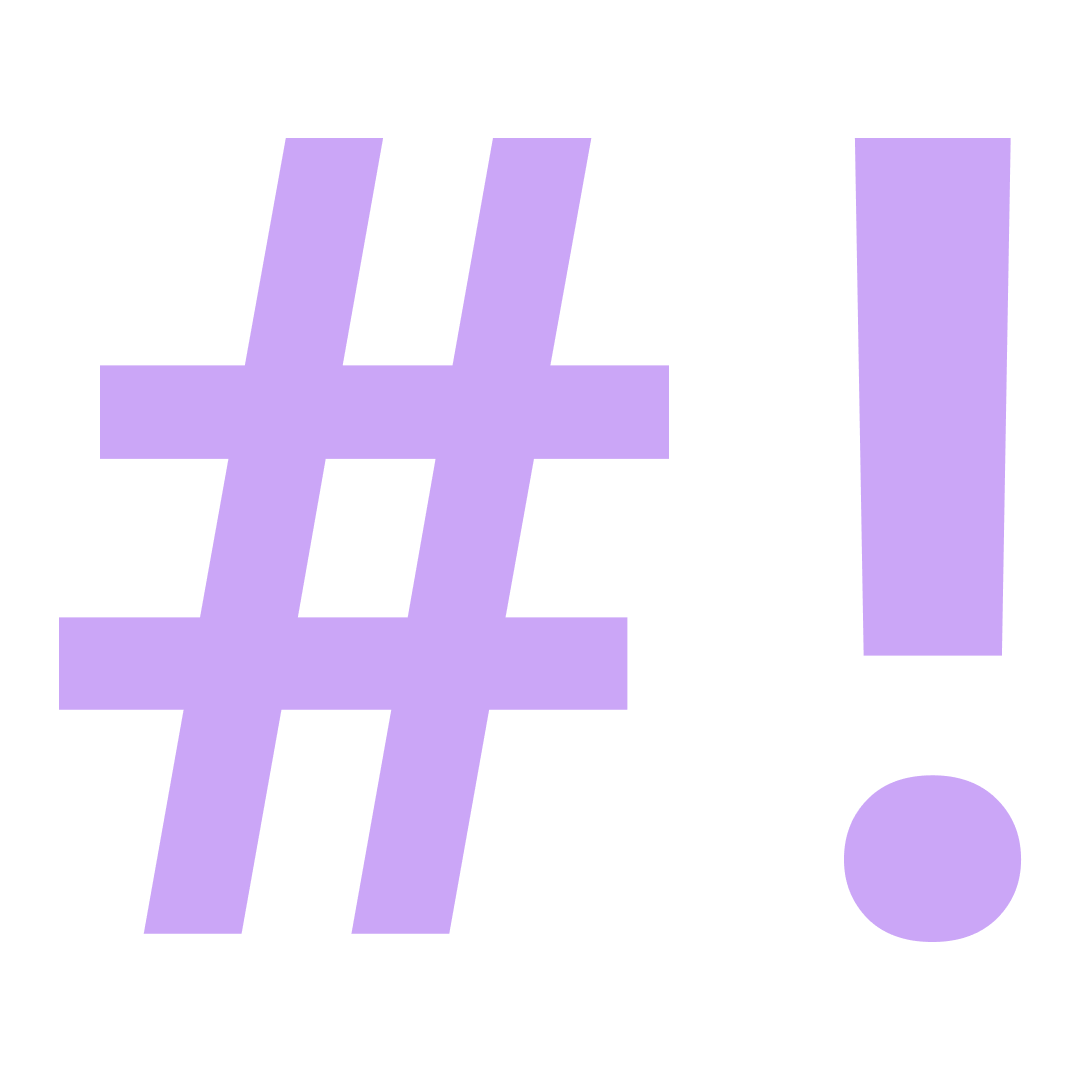
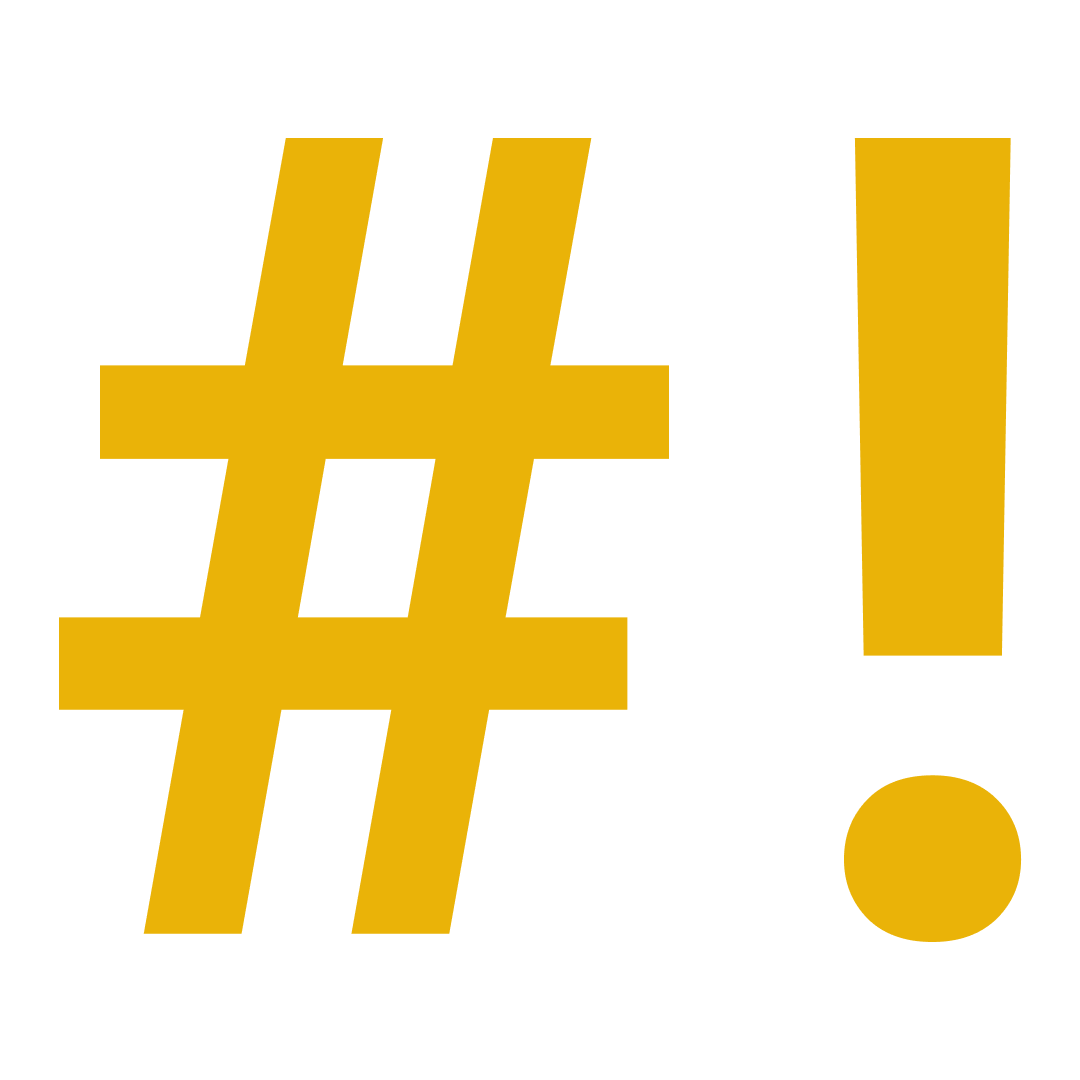
upd: new theme

Changed region(s): [[0.0306, 0.1222, 0.6417, 0.8861], [0.7944, 0.1222, 0.9472, 0.6111], [0.7639, 0.7028, 0.9472, 0.8861]]

diff --git a/qtile/.config/qtile/config.py b/qtile/.config/qtile/config.py
@@ -24,8 +24,8 @@ terminal = "kitty"
 
 img_folder = "~/.config/qtile/img/"
 
-walp = img_folder + "walps/ign-0002.png"
-logo = img_folder + "nan.png"
+walp = img_folder + "walps/neo2.png"
+logo = img_folder + "logo.png"
 
 keys = [
     # A list of available commands that can be bound to keys can be found
@@ -179,7 +179,6 @@ groups = [
         layout="max",
         matches=[Match(wm_class=["firefox", "Brave-browser"])],
         spawn=["brave-browser"],
-        exclusive=True,
     ),
     Group(
         name="dev",
@@ -214,7 +213,7 @@ layouts = [
     layout.Columns(
         margin=4,
         border_width=2,
-        border_focus=colors["yellow"],
+        border_focus=colors["base"],
         border_normal=colors["mantle"],
         border_on_single=False,
         margin_on_single=False
@@ -230,7 +229,7 @@ widget_defaults = dict(
 )
 extension_defaults = widget_defaults.copy()
 
-BAR_BG = colors["crust"] + "80"
+BAR_BG = colors["crust"]
 screens = [
     Screen(
         wallpaper=walp,
@@ -244,19 +243,20 @@ screens = [
                 ),
                 widget.Prompt(
                     fontsize=14,
-                    foreground=colors["base"],
-                    background=colors["mauve"]
+                    foreground=colors["mantle"],
+                    background=colors["green"]
                 ),
                 widget.GroupBox(
                     borderwidth=5,
                     active=colors["text"],
-                    inactive=colors["overlay0"],
+                    inactive=colors["overlay"],
                     background=BAR_BG,
                     disable_drag=False,
                     font="CaskaydiaCove Nerd Font Mono",
                     highlight_method="line",
                     highlight_color=BAR_BG,
-                    this_current_screen_border=colors["mauve"]
+                    hide_unused=True,
+                    this_current_screen_border=colors["yellow"]
                 ),
                 widget.TaskList(
                     urgent_alert_method="text",
@@ -267,7 +267,7 @@ screens = [
                     padding=6,
                     icon_size=0,
                     border=BAR_BG,
-                    foreground=colors["pink"],
+                    foreground=colors["yellow"],
                     borderwidth=0,
                     highlight_method="block",
                     center_aligned=True
@@ -285,18 +285,18 @@ screens = [
                 ),
                 widget.Volume(
                     fmt=' {}',
-                    background=colors["lavender"],
+                    background=colors["blue"],
                     foreground=colors["crust"],
                 ),
                 widget.Clock(
                     format="%dth %b, %Y",
                     foreground=colors["crust"],
-                    background=colors["blue"]
+                    background=colors["yellow"]
                 ),
                 widget.Clock(
                     format="%I:%M %p",
                     foreground=colors["crust"],
-                    background=colors["mauve"]
+                    background=colors["teal"],
                 ),
                 widget.Systray(
                     # background=BAR_BG,
@@ -315,7 +315,7 @@ screens = [
                 ),
             ],
             30,
-            background=colors["crust"] + "80",
+            background=colors["crust"],
         ),
     ),
 ]
@@ -345,8 +345,6 @@ focus_on_window_activation = "smart"
 auto_minimize = True
 
 # Auto Start
-subprocess.run("xfce4-power-manager &", shell=True)
 subprocess.run("nm-applet &", shell=True)
 subprocess.run("picom &", shell=True)
-subprocess.run("gnome-screensaver &", shell=True)
 
